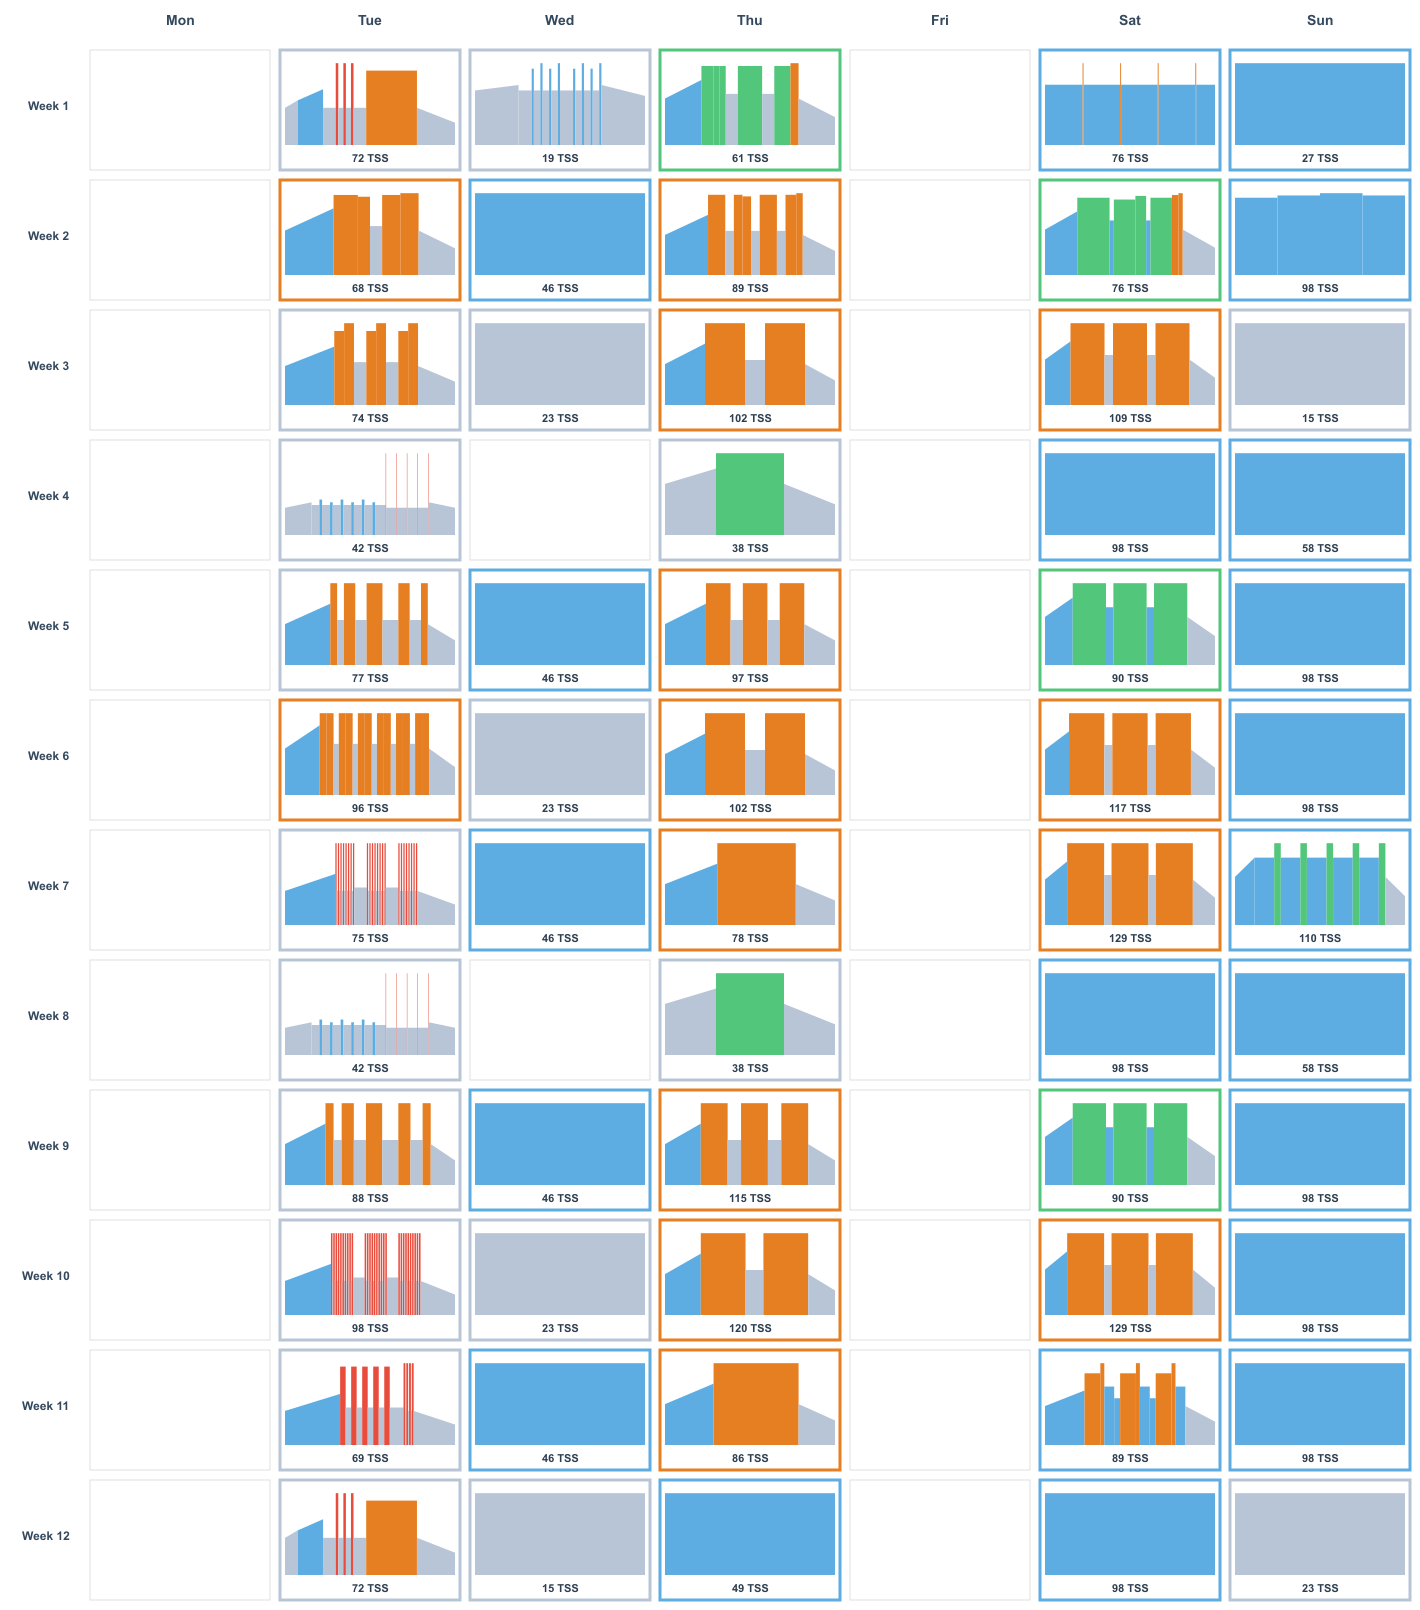
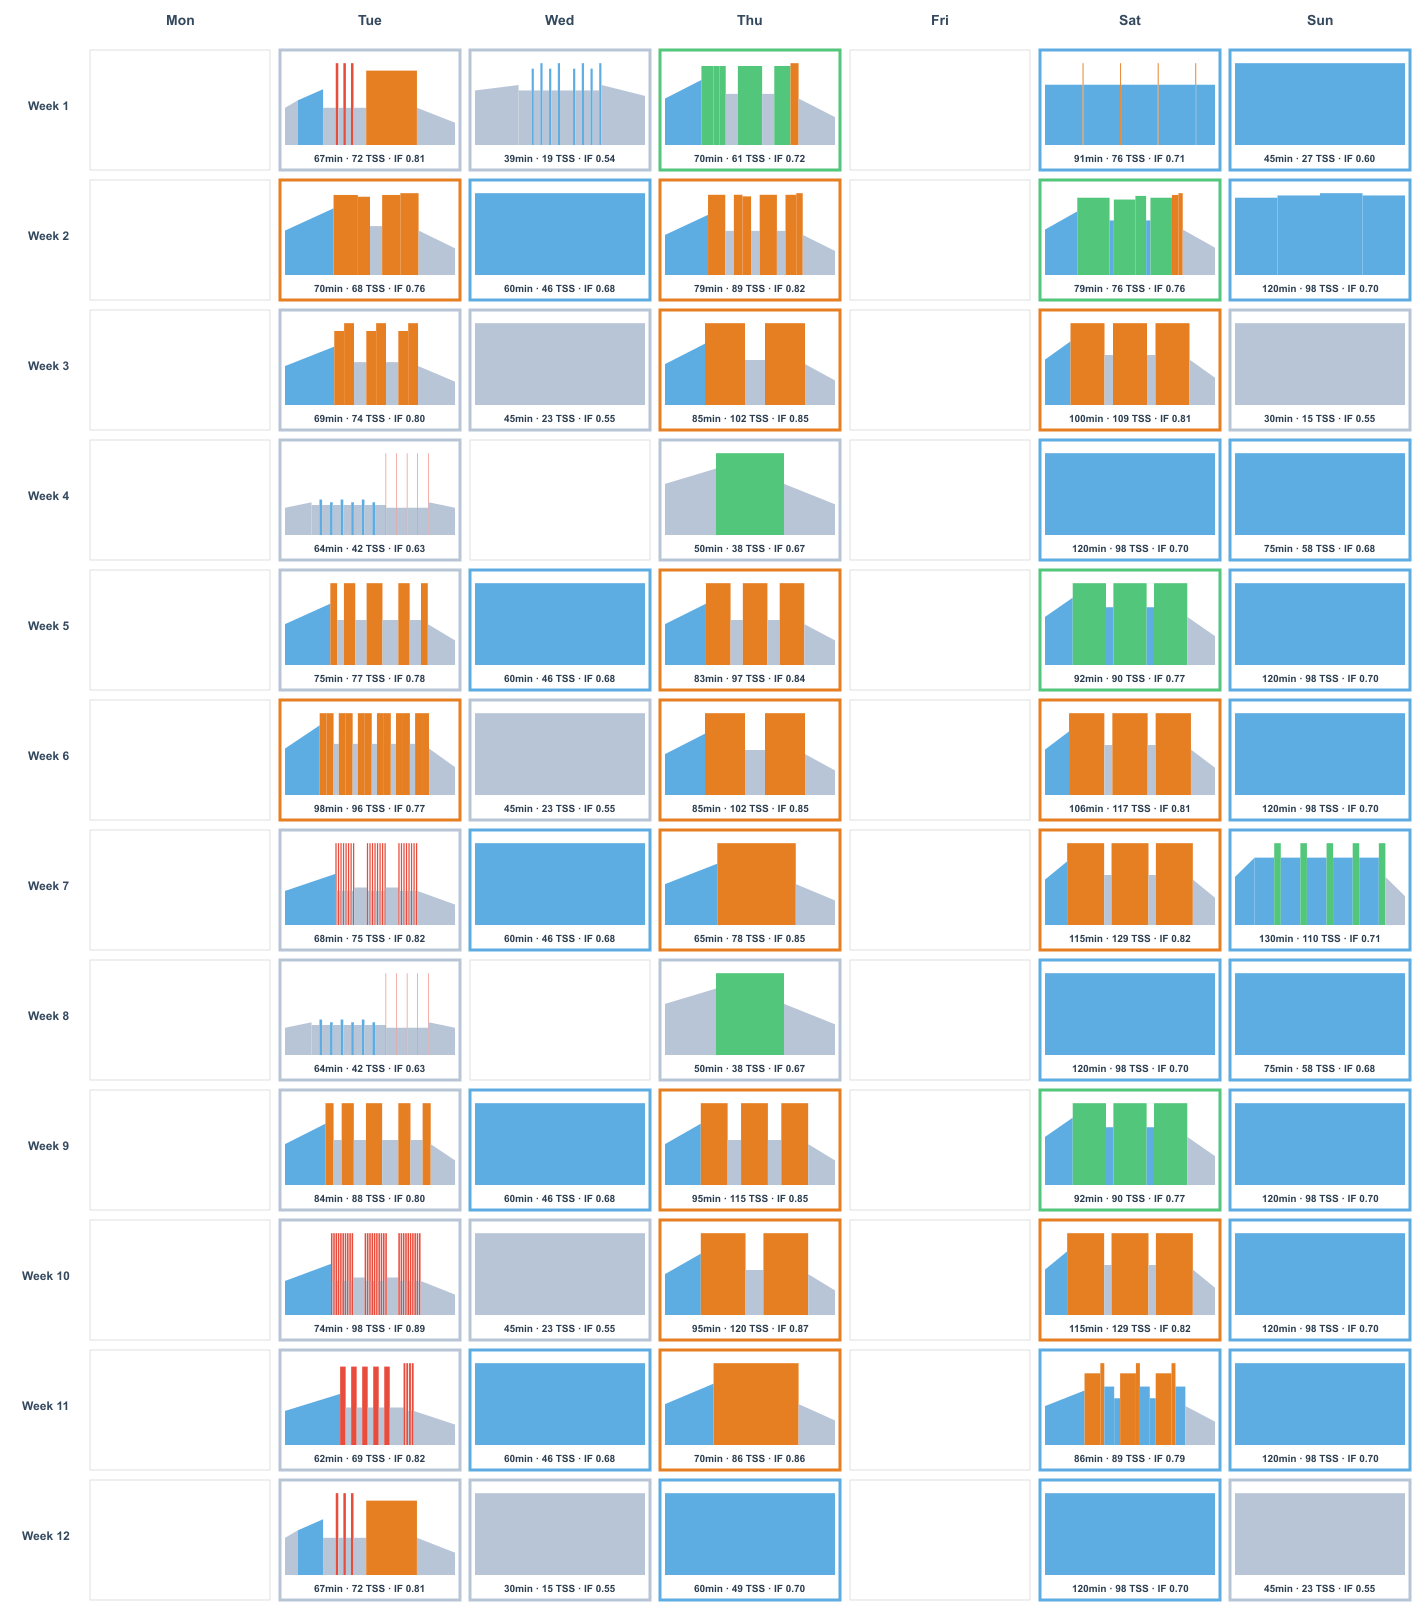
oui# * Why was this change necessary?

diff --git a/programs/12_weeks_ftp_builder/README.md b/programs/12_weeks_ftp_builder/README.md
@@ -31,235 +31,143 @@
 
 **Weekly Total:** 255 TSS, 5.2 hours
 
-- **Day 2 (Tuesday):** FTP Test - 72 TSS, 67 min
-  ![FTP Test](images/individual/W01-D2-Tuesday-FTP_Test.png)
-
-- **Day 3 (Wednesday):** Recovery - 19 TSS, 39 min
-  ![Recovery](images/individual/W01-D3-Wednesday-Recovery.png)
-
-- **Day 4 (Thursday):** Tempo - 61 TSS, 70 min
-  ![Tempo](images/individual/W01-D4-Thursday-Tempo.png)
-
-- **Day 6 (Saturday):** Endurance - 76 TSS, 91 min
-  ![Endurance](images/individual/W01-D6-Saturday-Endurance.png)
-
-- **Day 7 (Sunday):** Recovery - 27 TSS, 45 min
-  ![Recovery](images/individual/W01-D7-Sunday-Recovery.png)
-
+| Day | Workout | Details |
+| --- | ------- | ------- |
+| **Tuesday** | **FTP Test**<br/><img src="images/individual/W01-D2-Tuesday-FTP_Test.png" width="300"> | • 67 min · 72 TSS · IF 0.81 |
+| **Wednesday** | **Recovery**<br/><img src="images/individual/W01-D3-Wednesday-Recovery.png" width="300"> | • 39 min · 19 TSS · IF 0.54 |
+| **Thursday** | **Tempo**<br/><img src="images/individual/W01-D4-Thursday-Tempo.png" width="300"> | • 70 min · 61 TSS · IF 0.72 |
+| **Saturday** | **Endurance**<br/><img src="images/individual/W01-D6-Saturday-Endurance.png" width="300"> | • 91 min · 76 TSS · IF 0.71 |
+| **Sunday** | **Recovery**<br/><img src="images/individual/W01-D7-Sunday-Recovery.png" width="300"> | • 45 min · 27 TSS · IF 0.60 |
 
 ### Week 2
 
 **Weekly Total:** 377 TSS, 6.8 hours
 
-- **Day 2 (Tuesday):** Sweet Spot - 68 TSS, 70 min
-  ![Sweet Spot](images/individual/W02-D2-Tuesday-Sweet_Spot.png)
-
-- **Day 3 (Wednesday):** Easy Spin - 46 TSS, 60 min
-  ![Easy Spin](images/individual/W02-D3-Wednesday-Easy_Spin.png)
-
-- **Day 4 (Thursday):** FTP Intervals - 89 TSS, 79 min
-  ![FTP Intervals](images/individual/W02-D4-Thursday-FTP_Intervals.png)
-
-- **Day 6 (Saturday):** Tempo Endurance - 76 TSS, 79 min
-  ![Tempo Endurance](images/individual/W02-D6-Saturday-Tempo_Endurance.png)
-
-- **Day 7 (Sunday):** Long Endurance - 98 TSS, 120 min
-  ![Long Endurance](images/individual/W02-D7-Sunday-Long_Endurance.png)
-
+| Day | Workout | Details |
+| --- | ------- | ------- |
+| **Tuesday** | **Sweet Spot**<br/><img src="images/individual/W02-D2-Tuesday-Sweet_Spot.png" width="300"> | • 70 min · 68 TSS · IF 0.76 |
+| **Wednesday** | **Easy Spin**<br/><img src="images/individual/W02-D3-Wednesday-Easy_Spin.png" width="300"> | • 60 min · 46 TSS · IF 0.68 |
+| **Thursday** | **FTP Intervals**<br/><img src="images/individual/W02-D4-Thursday-FTP_Intervals.png" width="300"> | • 79 min · 89 TSS · IF 0.82 |
+| **Saturday** | **Tempo Endurance**<br/><img src="images/individual/W02-D6-Saturday-Tempo_Endurance.png" width="300"> | • 79 min · 76 TSS · IF 0.76 |
+| **Sunday** | **Long Endurance**<br/><img src="images/individual/W02-D7-Sunday-Long_Endurance.png" width="300"> | • 120 min · 98 TSS · IF 0.70 |
 
 ### Week 3
 
 **Weekly Total:** 323 TSS, 5.5 hours
 
-- **Day 2 (Tuesday):** Over Unders - 74 TSS, 69 min
-  ![Over Unders](images/individual/W03-D2-Tuesday-Over_Unders.png)
-
-- **Day 3 (Wednesday):** Recovery - 23 TSS, 45 min
-  ![Recovery](images/individual/W03-D3-Wednesday-Recovery.png)
-
-- **Day 4 (Thursday):** Extended Threshold - 102 TSS, 85 min
-  ![Extended Threshold](images/individual/W03-D4-Thursday-Extended_Threshold.png)
-
-- **Day 6 (Saturday):** Sweet Spot Progression - 109 TSS, 100 min
-  ![Sweet Spot Progression](images/individual/W03-D6-Saturday-Sweet_Spot_Progression.png)
-
-- **Day 7 (Sunday):** Easy Spin - 15 TSS, 30 min
-  ![Easy Spin](images/individual/W03-D7-Sunday-Easy_Spin.png)
-
+| Day | Workout | Details |
+| --- | ------- | ------- |
+| **Tuesday** | **Over Unders**<br/><img src="images/individual/W03-D2-Tuesday-Over_Unders.png" width="300"> | • 69 min · 74 TSS · IF 0.80 |
+| **Wednesday** | **Recovery**<br/><img src="images/individual/W03-D3-Wednesday-Recovery.png" width="300"> | • 45 min · 23 TSS · IF 0.55 |
+| **Thursday** | **Extended Threshold**<br/><img src="images/individual/W03-D4-Thursday-Extended_Threshold.png" width="300"> | • 85 min · 102 TSS · IF 0.85 |
+| **Saturday** | **Sweet Spot Progression**<br/><img src="images/individual/W03-D6-Saturday-Sweet_Spot_Progression.png" width="300"> | • 100 min · 109 TSS · IF 0.81 |
+| **Sunday** | **Easy Spin**<br/><img src="images/individual/W03-D7-Sunday-Easy_Spin.png" width="300"> | • 30 min · 15 TSS · IF 0.55 |
 
 ### Week 4
 
 **Weekly Total:** 236 TSS, 5.2 hours
 
-- **Day 2 (Tuesday):** Recovery Cadence - 42 TSS, 64 min
-  ![Recovery Cadence](images/individual/W04-D2-Tuesday-Recovery_Cadence.png)
-
-- **Day 4 (Thursday):** Light Tempo - 38 TSS, 50 min
-  ![Light Tempo](images/individual/W04-D4-Thursday-Light_Tempo.png)
-
-- **Day 6 (Saturday):** Easy Endurance - 98 TSS, 120 min
-  ![Easy Endurance](images/individual/W04-D6-Saturday-Easy_Endurance.png)
-
-- **Day 7 (Sunday):** Recovery - 58 TSS, 75 min
-  ![Recovery](images/individual/W04-D7-Sunday-Recovery.png)
-
+| Day | Workout | Details |
+| --- | ------- | ------- |
+| **Tuesday** | **Recovery Cadence**<br/><img src="images/individual/W04-D2-Tuesday-Recovery_Cadence.png" width="300"> | • 64 min · 42 TSS · IF 0.63 |
+| **Thursday** | **Light Tempo**<br/><img src="images/individual/W04-D4-Thursday-Light_Tempo.png" width="300"> | • 50 min · 38 TSS · IF 0.67 |
+| **Saturday** | **Easy Endurance**<br/><img src="images/individual/W04-D6-Saturday-Easy_Endurance.png" width="300"> | • 120 min · 98 TSS · IF 0.70 |
+| **Sunday** | **Recovery**<br/><img src="images/individual/W04-D7-Sunday-Recovery.png" width="300"> | • 75 min · 58 TSS · IF 0.68 |
 
 ### Week 5
 
 **Weekly Total:** 408 TSS, 7.2 hours
 
-- **Day 2 (Tuesday):** Pyramid Intervals - 77 TSS, 75 min
-  ![Pyramid Intervals](images/individual/W05-D2-Tuesday-Pyramid_Intervals.png)
-
-- **Day 3 (Wednesday):** Easy Spin - 46 TSS, 60 min
-  ![Easy Spin](images/individual/W05-D3-Wednesday-Easy_Spin.png)
-
-- **Day 4 (Thursday):** Progressive Threshold - 97 TSS, 83 min
-  ![Progressive Threshold](images/individual/W05-D4-Thursday-Progressive_Threshold.png)
-
-- **Day 6 (Saturday):** Tempo Endurance Long - 90 TSS, 92 min
-  ![Tempo Endurance Long](images/individual/W05-D6-Saturday-Tempo_Endurance_Long.png)
-
-- **Day 7 (Sunday):** Long Endurance - 98 TSS, 120 min
-  ![Long Endurance](images/individual/W05-D7-Sunday-Long_Endurance.png)
-
+| Day | Workout | Details |
+| --- | ------- | ------- |
+| **Tuesday** | **Pyramid Intervals**<br/><img src="images/individual/W05-D2-Tuesday-Pyramid_Intervals.png" width="300"> | • 75 min · 77 TSS · IF 0.78 |
+| **Wednesday** | **Easy Spin**<br/><img src="images/individual/W05-D3-Wednesday-Easy_Spin.png" width="300"> | • 60 min · 46 TSS · IF 0.68 |
+| **Thursday** | **Progressive Threshold**<br/><img src="images/individual/W05-D4-Thursday-Progressive_Threshold.png" width="300"> | • 83 min · 97 TSS · IF 0.84 |
+| **Saturday** | **Tempo Endurance Long**<br/><img src="images/individual/W05-D6-Saturday-Tempo_Endurance_Long.png" width="300"> | • 92 min · 90 TSS · IF 0.77 |
+| **Sunday** | **Long Endurance**<br/><img src="images/individual/W05-D7-Sunday-Long_Endurance.png" width="300"> | • 120 min · 98 TSS · IF 0.70 |
 
 ### Week 6
 
 **Weekly Total:** 436 TSS, 7.6 hours
 
-- **Day 2 (Tuesday):** Push and Pull - 96 TSS, 98 min
-  ![Push and Pull](images/individual/W06-D2-Tuesday-Push_and_Pull.png)
-
-- **Day 3 (Wednesday):** Recovery - 23 TSS, 45 min
-  ![Recovery](images/individual/W06-D3-Wednesday-Recovery.png)
-
-- **Day 4 (Thursday):** FTP 2x20 - 102 TSS, 85 min
-  ![FTP 2x20](images/individual/W06-D4-Thursday-FTP_2x20.png)
-
-- **Day 6 (Saturday):** Sweet Spot 3x22 - 117 TSS, 106 min
-  ![Sweet Spot 3x22](images/individual/W06-D6-Saturday-Sweet_Spot_3x22.png)
-
-- **Day 7 (Sunday):** Endurance - 98 TSS, 120 min
-  ![Endurance](images/individual/W06-D7-Sunday-Endurance.png)
-
+| Day | Workout | Details |
+| --- | ------- | ------- |
+| **Tuesday** | **Push and Pull**<br/><img src="images/individual/W06-D2-Tuesday-Push_and_Pull.png" width="300"> | • 98 min · 96 TSS · IF 0.77 |
+| **Wednesday** | **Recovery**<br/><img src="images/individual/W06-D3-Wednesday-Recovery.png" width="300"> | • 45 min · 23 TSS · IF 0.55 |
+| **Thursday** | **FTP 2x20**<br/><img src="images/individual/W06-D4-Thursday-FTP_2x20.png" width="300"> | • 85 min · 102 TSS · IF 0.85 |
+| **Saturday** | **Sweet Spot 3x22**<br/><img src="images/individual/W06-D6-Saturday-Sweet_Spot_3x22.png" width="300"> | • 106 min · 117 TSS · IF 0.81 |
+| **Sunday** | **Endurance**<br/><img src="images/individual/W06-D7-Sunday-Endurance.png" width="300"> | • 120 min · 98 TSS · IF 0.70 |
 
 ### Week 7
 
 **Weekly Total:** 438 TSS, 7.3 hours
 
-- **Day 2 (Tuesday):** VO2max 30 30s - 75 TSS, 68 min
-  ![VO2max 30 30s](images/individual/W07-D2-Tuesday-VO2max_30_30s.png)
-
-- **Day 3 (Wednesday):** Easy Spin - 46 TSS, 60 min
-  ![Easy Spin](images/individual/W07-D3-Wednesday-Easy_Spin.png)
-
-- **Day 4 (Thursday):** FTP 30min - 78 TSS, 65 min
-  ![FTP 30min](images/individual/W07-D4-Thursday-FTP_30min.png)
-
-- **Day 6 (Saturday):** Sweet Spot 3x25 - 129 TSS, 115 min
-  ![Sweet Spot 3x25](images/individual/W07-D6-Saturday-Sweet_Spot_3x25.png)
-
-- **Day 7 (Sunday):** Endurance Tempo - 110 TSS, 130 min
-  ![Endurance Tempo](images/individual/W07-D7-Sunday-Endurance_Tempo.png)
-
+| Day | Workout | Details |
+| --- | ------- | ------- |
+| **Tuesday** | **VO2max 30 30s**<br/><img src="images/individual/W07-D2-Tuesday-VO2max_30_30s.png" width="300"> | • 68 min · 75 TSS · IF 0.82 |
+| **Wednesday** | **Easy Spin**<br/><img src="images/individual/W07-D3-Wednesday-Easy_Spin.png" width="300"> | • 60 min · 46 TSS · IF 0.68 |
+| **Thursday** | **FTP 30min**<br/><img src="images/individual/W07-D4-Thursday-FTP_30min.png" width="300"> | • 65 min · 78 TSS · IF 0.85 |
+| **Saturday** | **Sweet Spot 3x25**<br/><img src="images/individual/W07-D6-Saturday-Sweet_Spot_3x25.png" width="300"> | • 115 min · 129 TSS · IF 0.82 |
+| **Sunday** | **Endurance Tempo**<br/><img src="images/individual/W07-D7-Sunday-Endurance_Tempo.png" width="300"> | • 130 min · 110 TSS · IF 0.71 |
 
 ### Week 8
 
 **Weekly Total:** 236 TSS, 5.2 hours
 
-- **Day 2 (Tuesday):** Recovery Cadence - 42 TSS, 64 min
-  ![Recovery Cadence](images/individual/W08-D2-Tuesday-Recovery_Cadence.png)
-
-- **Day 4 (Thursday):** Light Tempo - 38 TSS, 50 min
-  ![Light Tempo](images/individual/W08-D4-Thursday-Light_Tempo.png)
-
-- **Day 6 (Saturday):** Easy Endurance - 98 TSS, 120 min
-  ![Easy Endurance](images/individual/W08-D6-Saturday-Easy_Endurance.png)
-
-- **Day 7 (Sunday):** Recovery - 58 TSS, 75 min
-  ![Recovery](images/individual/W08-D7-Sunday-Recovery.png)
-
+| Day | Workout | Details |
+| --- | ------- | ------- |
+| **Tuesday** | **Recovery Cadence**<br/><img src="images/individual/W08-D2-Tuesday-Recovery_Cadence.png" width="300"> | • 64 min · 42 TSS · IF 0.63 |
+| **Thursday** | **Light Tempo**<br/><img src="images/individual/W08-D4-Thursday-Light_Tempo.png" width="300"> | • 50 min · 38 TSS · IF 0.67 |
+| **Saturday** | **Easy Endurance**<br/><img src="images/individual/W08-D6-Saturday-Easy_Endurance.png" width="300"> | • 120 min · 98 TSS · IF 0.70 |
+| **Sunday** | **Recovery**<br/><img src="images/individual/W08-D7-Sunday-Recovery.png" width="300"> | • 75 min · 58 TSS · IF 0.68 |
 
 ### Week 9
 
 **Weekly Total:** 437 TSS, 7.5 hours
 
-- **Day 2 (Tuesday):** Pyramid Intervals - 88 TSS, 84 min
-  ![Pyramid Intervals](images/individual/W09-D2-Tuesday-Pyramid_Intervals.png)
-
-- **Day 3 (Wednesday):** Easy Spin - 46 TSS, 60 min
-  ![Easy Spin](images/individual/W09-D3-Wednesday-Easy_Spin.png)
-
-- **Day 4 (Thursday):** FTP 3x15 - 115 TSS, 95 min
-  ![FTP 3x15](images/individual/W09-D4-Thursday-FTP_3x15.png)
-
-- **Day 6 (Saturday):** Tempo Endurance - 90 TSS, 92 min
-  ![Tempo Endurance](images/individual/W09-D6-Saturday-Tempo_Endurance.png)
-
-- **Day 7 (Sunday):** Long Endurance - 98 TSS, 120 min
-  ![Long Endurance](images/individual/W09-D7-Sunday-Long_Endurance.png)
-
+| Day | Workout | Details |
+| --- | ------- | ------- |
+| **Tuesday** | **Pyramid Intervals**<br/><img src="images/individual/W09-D2-Tuesday-Pyramid_Intervals.png" width="300"> | • 84 min · 88 TSS · IF 0.80 |
+| **Wednesday** | **Easy Spin**<br/><img src="images/individual/W09-D3-Wednesday-Easy_Spin.png" width="300"> | • 60 min · 46 TSS · IF 0.68 |
+| **Thursday** | **FTP 3x15**<br/><img src="images/individual/W09-D4-Thursday-FTP_3x15.png" width="300"> | • 95 min · 115 TSS · IF 0.85 |
+| **Saturday** | **Tempo Endurance**<br/><img src="images/individual/W09-D6-Saturday-Tempo_Endurance.png" width="300"> | • 92 min · 90 TSS · IF 0.77 |
+| **Sunday** | **Long Endurance**<br/><img src="images/individual/W09-D7-Sunday-Long_Endurance.png" width="300"> | • 120 min · 98 TSS · IF 0.70 |
 
 ### Week 10
 
 **Weekly Total:** 468 TSS, 7.5 hours
 
-- **Day 2 (Tuesday):** VO2max 40 20s - 98 TSS, 74 min
-  ![VO2max 40 20s](images/individual/W10-D2-Tuesday-VO2max_40_20s.png)
-
-- **Day 3 (Wednesday):** Recovery - 23 TSS, 45 min
-  ![Recovery](images/individual/W10-D3-Wednesday-Recovery.png)
-
-- **Day 4 (Thursday):** FTP 2x25 - 120 TSS, 95 min
-  ![FTP 2x25](images/individual/W10-D4-Thursday-FTP_2x25.png)
-
-- **Day 6 (Saturday):** Sweet Spot 3x25 - 129 TSS, 115 min
-  ![Sweet Spot 3x25](images/individual/W10-D6-Saturday-Sweet_Spot_3x25.png)
-
-- **Day 7 (Sunday):** Endurance - 98 TSS, 120 min
-  ![Endurance](images/individual/W10-D7-Sunday-Endurance.png)
-
+| Day | Workout | Details |
+| --- | ------- | ------- |
+| **Tuesday** | **VO2max 40 20s**<br/><img src="images/individual/W10-D2-Tuesday-VO2max_40_20s.png" width="300"> | • 74 min · 98 TSS · IF 0.89 |
+| **Wednesday** | **Recovery**<br/><img src="images/individual/W10-D3-Wednesday-Recovery.png" width="300"> | • 45 min · 23 TSS · IF 0.55 |
+| **Thursday** | **FTP 2x25**<br/><img src="images/individual/W10-D4-Thursday-FTP_2x25.png" width="300"> | • 95 min · 120 TSS · IF 0.87 |
+| **Saturday** | **Sweet Spot 3x25**<br/><img src="images/individual/W10-D6-Saturday-Sweet_Spot_3x25.png" width="300"> | • 115 min · 129 TSS · IF 0.82 |
+| **Sunday** | **Endurance**<br/><img src="images/individual/W10-D7-Sunday-Endurance.png" width="300"> | • 120 min · 98 TSS · IF 0.70 |
 
 ### Week 11
 
 **Weekly Total:** 388 TSS, 6.6 hours
 
-- **Day 2 (Tuesday):** VO2max Mixed - 69 TSS, 62 min
-  ![VO2max Mixed](images/individual/W11-D2-Tuesday-VO2max_Mixed.png)
-
-- **Day 3 (Wednesday):** Easy Spin - 46 TSS, 60 min
-  ![Easy Spin](images/individual/W11-D3-Wednesday-Easy_Spin.png)
-
-- **Day 4 (Thursday):** FTP 35min - 86 TSS, 70 min
-  ![FTP 35min](images/individual/W11-D4-Thursday-FTP_35min.png)
-
-- **Day 6 (Saturday):** Race Simulation - 89 TSS, 86 min
-  ![Race Simulation](images/individual/W11-D6-Saturday-Race_Simulation.png)
-
-- **Day 7 (Sunday):** Endurance - 98 TSS, 120 min
-  ![Endurance](images/individual/W11-D7-Sunday-Endurance.png)
-
+| Day | Workout | Details |
+| --- | ------- | ------- |
+| **Tuesday** | **VO2max Mixed**<br/><img src="images/individual/W11-D2-Tuesday-VO2max_Mixed.png" width="300"> | • 62 min · 69 TSS · IF 0.82 |
+| **Wednesday** | **Easy Spin**<br/><img src="images/individual/W11-D3-Wednesday-Easy_Spin.png" width="300"> | • 60 min · 46 TSS · IF 0.68 |
+| **Thursday** | **FTP 35min**<br/><img src="images/individual/W11-D4-Thursday-FTP_35min.png" width="300"> | • 70 min · 86 TSS · IF 0.86 |
+| **Saturday** | **Race Simulation**<br/><img src="images/individual/W11-D6-Saturday-Race_Simulation.png" width="300"> | • 86 min · 89 TSS · IF 0.79 |
+| **Sunday** | **Endurance**<br/><img src="images/individual/W11-D7-Sunday-Endurance.png" width="300"> | • 120 min · 98 TSS · IF 0.70 |
 
 ### Week 12
 
 **Weekly Total:** 257 TSS, 5.4 hours
 
-- **Day 2 (Tuesday):** Final FTP Test - 72 TSS, 67 min
-  ![Final FTP Test](images/individual/W12-D2-Tuesday-Final_FTP_Test.png)
-
-- **Day 3 (Wednesday):** Easy Spin - 15 TSS, 30 min
-  ![Easy Spin](images/individual/W12-D3-Wednesday-Easy_Spin.png)
-
-- **Day 4 (Thursday):** Victory Lap - 49 TSS, 60 min
-  ![Victory Lap](images/individual/W12-D4-Thursday-Victory_Lap.png)
-
-- **Day 6 (Saturday):** Celebration Ride - 98 TSS, 120 min
-  ![Celebration Ride](images/individual/W12-D6-Saturday-Celebration_Ride.png)
-
-- **Day 7 (Sunday):** Recovery - 23 TSS, 45 min
-  ![Recovery](images/individual/W12-D7-Sunday-Recovery.png)
-
+| Day | Workout | Details |
+| --- | ------- | ------- |
+| **Tuesday** | **Final FTP Test**<br/><img src="images/individual/W12-D2-Tuesday-Final_FTP_Test.png" width="300"> | • 67 min · 72 TSS · IF 0.81 |
+| **Wednesday** | **Easy Spin**<br/><img src="images/individual/W12-D3-Wednesday-Easy_Spin.png" width="300"> | • 30 min · 15 TSS · IF 0.55 |
+| **Thursday** | **Victory Lap**<br/><img src="images/individual/W12-D4-Thursday-Victory_Lap.png" width="300"> | • 60 min · 49 TSS · IF 0.70 |
+| **Saturday** | **Celebration Ride**<br/><img src="images/individual/W12-D6-Saturday-Celebration_Ride.png" width="300"> | • 120 min · 98 TSS · IF 0.70 |
+| **Sunday** | **Recovery**<br/><img src="images/individual/W12-D7-Sunday-Recovery.png" width="300"> | • 45 min · 23 TSS · IF 0.55 |
 
 ## Usage
 
